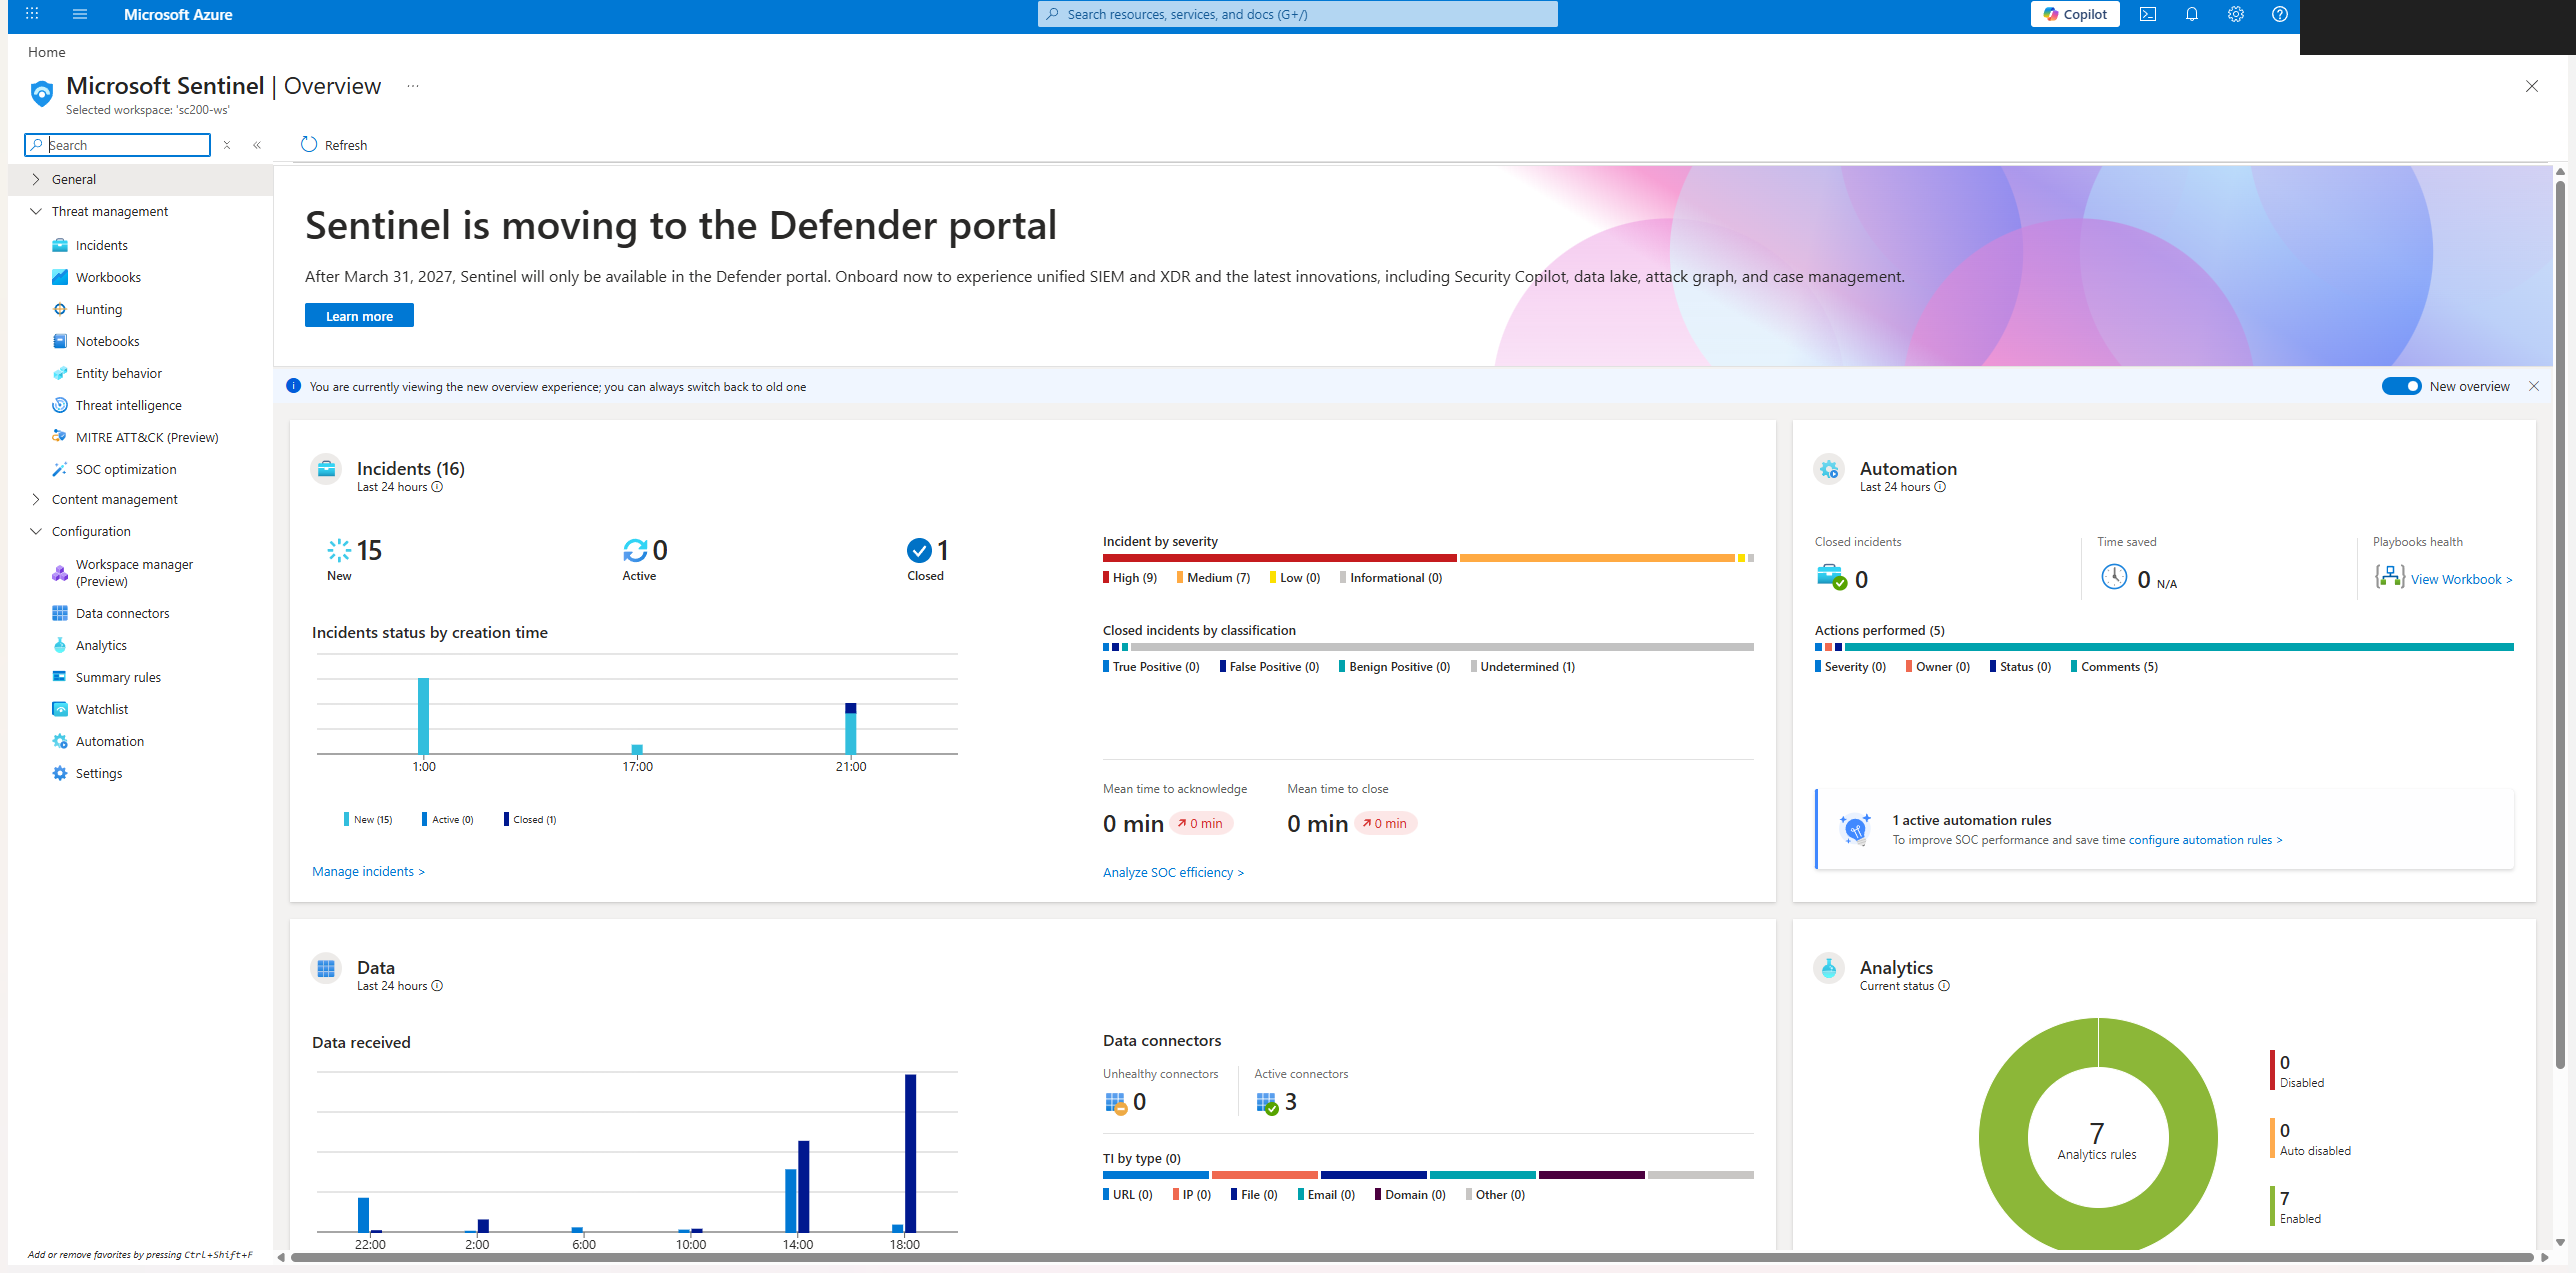
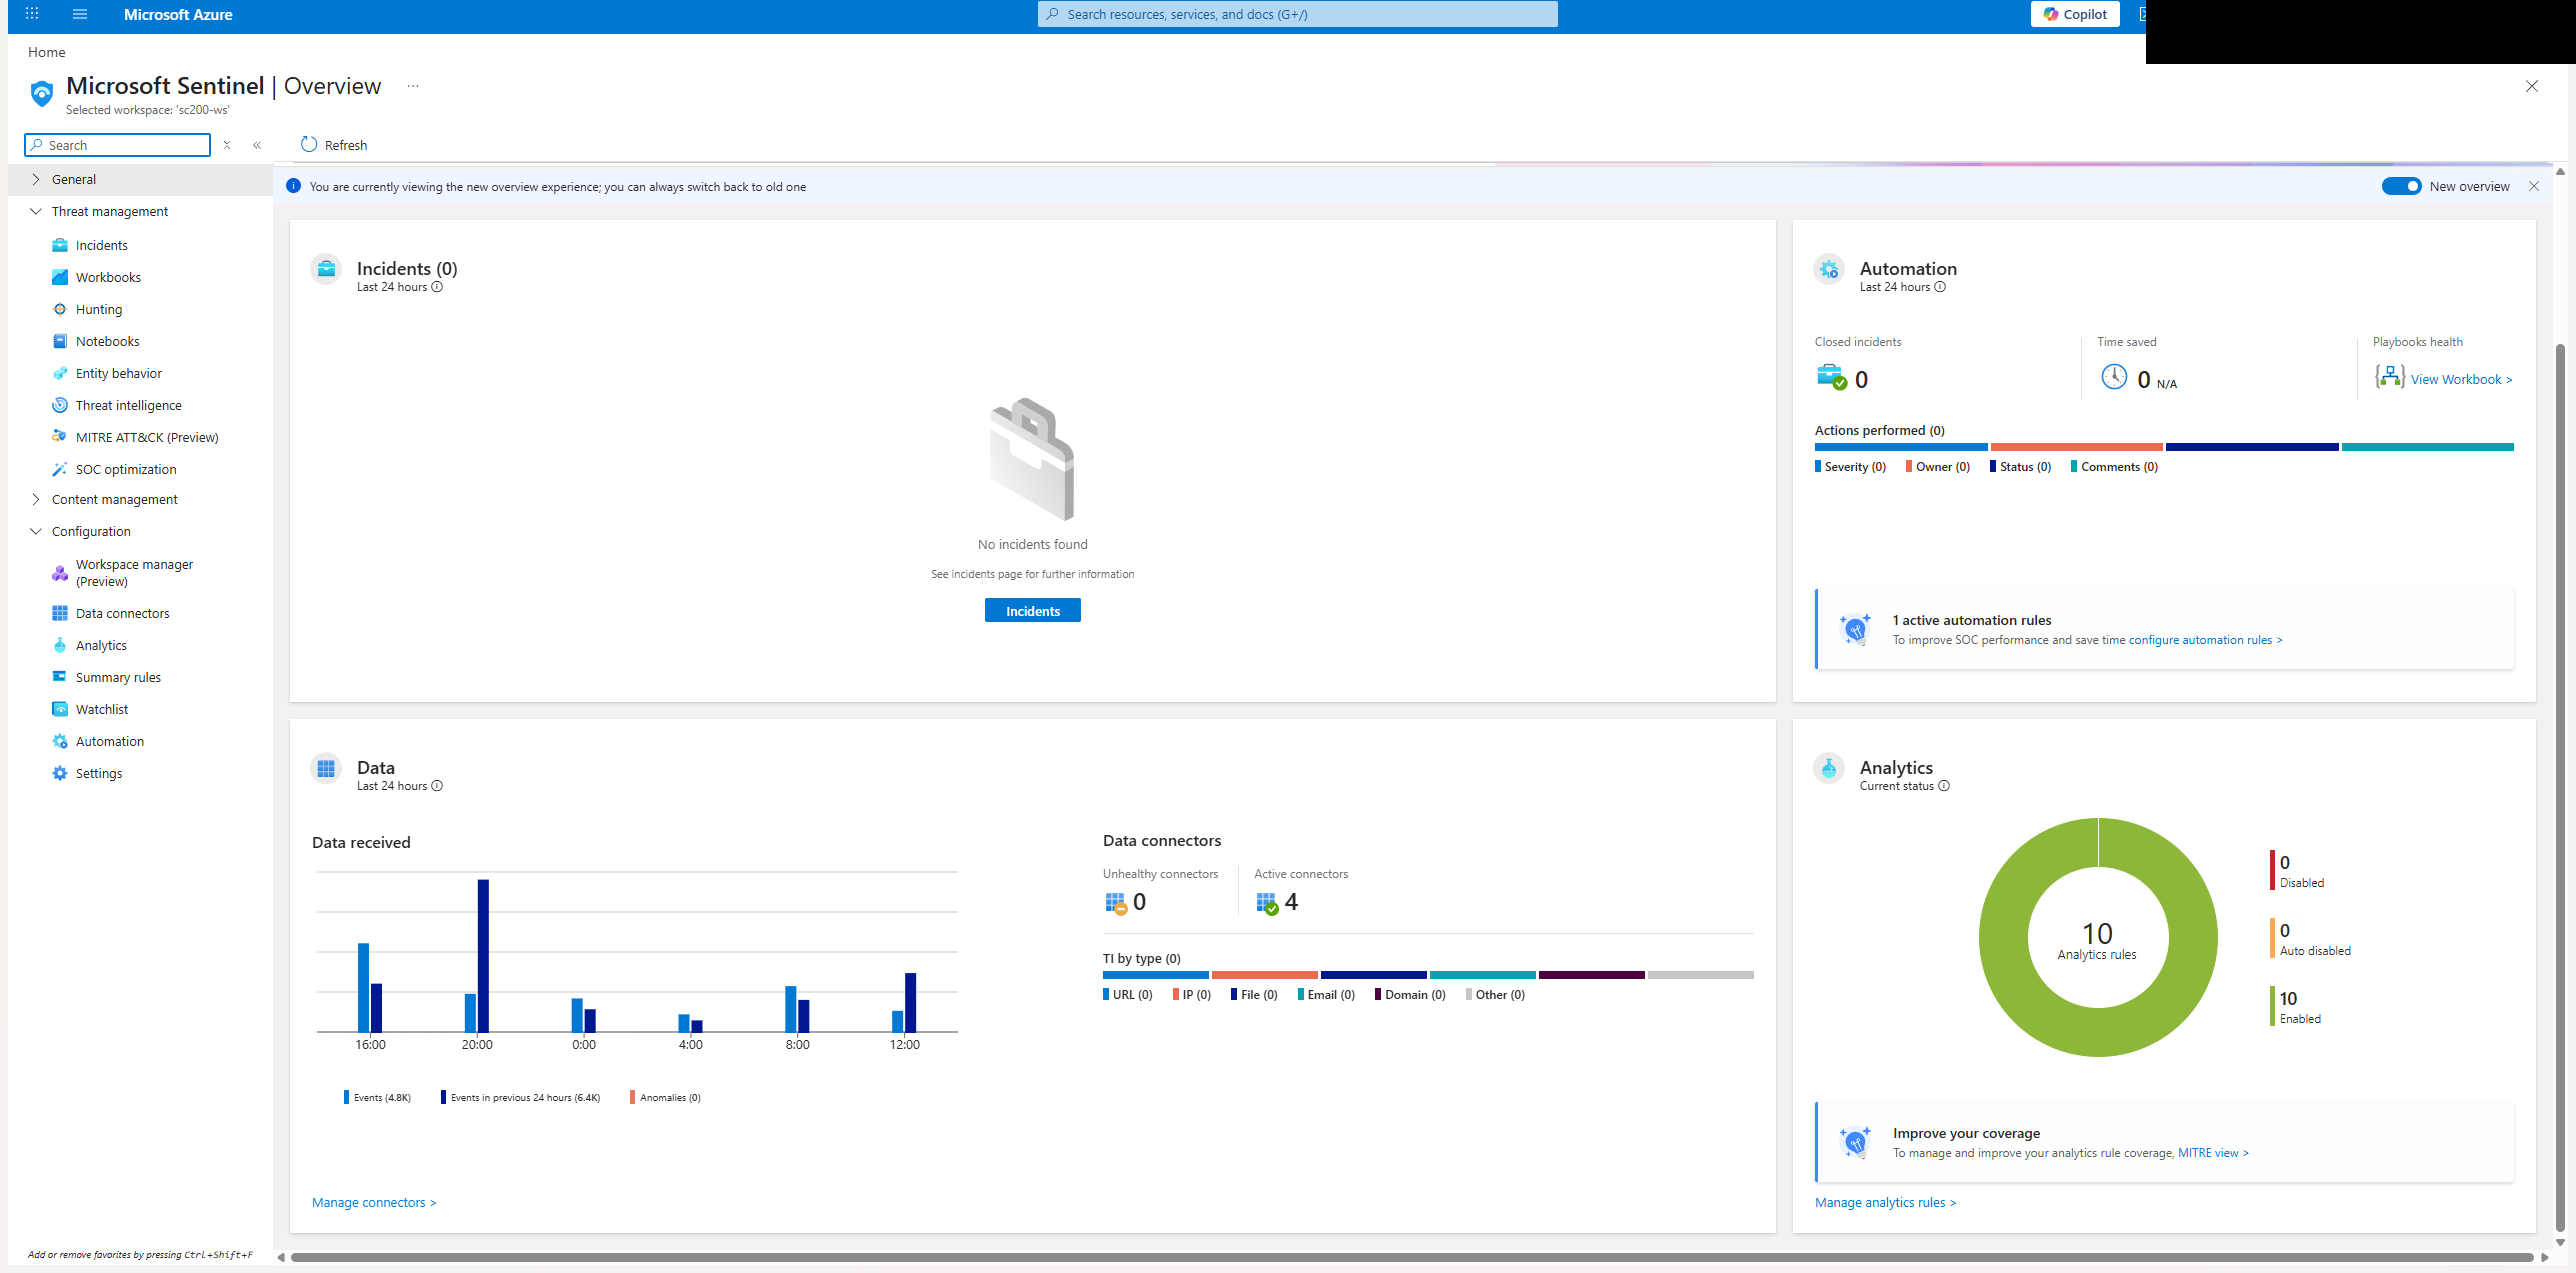
Refresh Sentinel overview screenshot to current state (10 rules, 4 connectors)
Replaces the early/sparse overview (7-rule donut, low data) with the current operational state:
10 analytics rules enabled, 4 active data connectors, 1 automation rule, live data received.
Embedded in the README Results section; account/tenant chip redacted.

Note: the Sentinel incidents queue moved to the Defender portal (the Azure-portal incidents blade
now shows a migration notice), and this is a controlled lab where incidents are triggered
deliberately and closed, so the accumulated-volume story is carried by the score, exposure, and
vulnerability captures (12-15), not an incident count.

diff --git a/README.md b/README.md
@@ -70,6 +70,10 @@ Each detection was triggered with a controlled, self-reverted administrative act
 
 ![Incidents queue](screenshots/05-incidents-queue-populated.png)
 
+Current operational state of the workspace: 10 analytics rules enabled, 4 active data connectors, an automation rule, and live data flowing.
+
+![Microsoft Sentinel overview, current state](screenshots/11-sentinel-overview.png)
+
 Five incidents are written up as full investigations:
 - [INV-01, Mass resource deletion (High)](investigations/INV-01-mass-resource-deletion.md)
 - [INV-02, RBAC privilege escalation](investigations/INV-02-rbac-privilege-escalation.md)

diff --git a/screenshots/README.md b/screenshots/README.md
@@ -15,7 +15,7 @@ Visual evidence for these detections. Full unredacted captures are staged in `_r
 | `08-device-active.png` | Device inventory, `soc-sensor-01` Active and Onboarded (Windows 11 sensor) |
 | `09-secure-score.png` | Microsoft 365 Secure Score (61.76%, identity/apps/data/device), referenced by [docs/10](../docs/10-posture-remediation.md) |
 | `10-inc-06-lsass.png` | Sentinel incident #65 `[DET] LSASS credential access` (High), host `soc-sensor-01`, tactic Credential Access |
-| `11-sentinel-overview.png` | Microsoft Sentinel overview, incident queue + analytics-rule state |
+| `11-sentinel-overview.png` | Microsoft Sentinel overview (current): 10 analytics rules enabled, 4 active data connectors, 1 automation rule, live data received |
 | `12-secure-score-current.png` | Microsoft 365 Secure Score current state, 50.14%, 94 actions to review |
 | `13-defender-overview.png` | Defender portal dashboard, current scope: SOC optimization, UEBA, automation, connectors, secure score, devices |
 | `14-exposure-recommendations.png` | Exposure Management, exposure score 65 (Medium) + 6-day score-history trend + recommendation list |